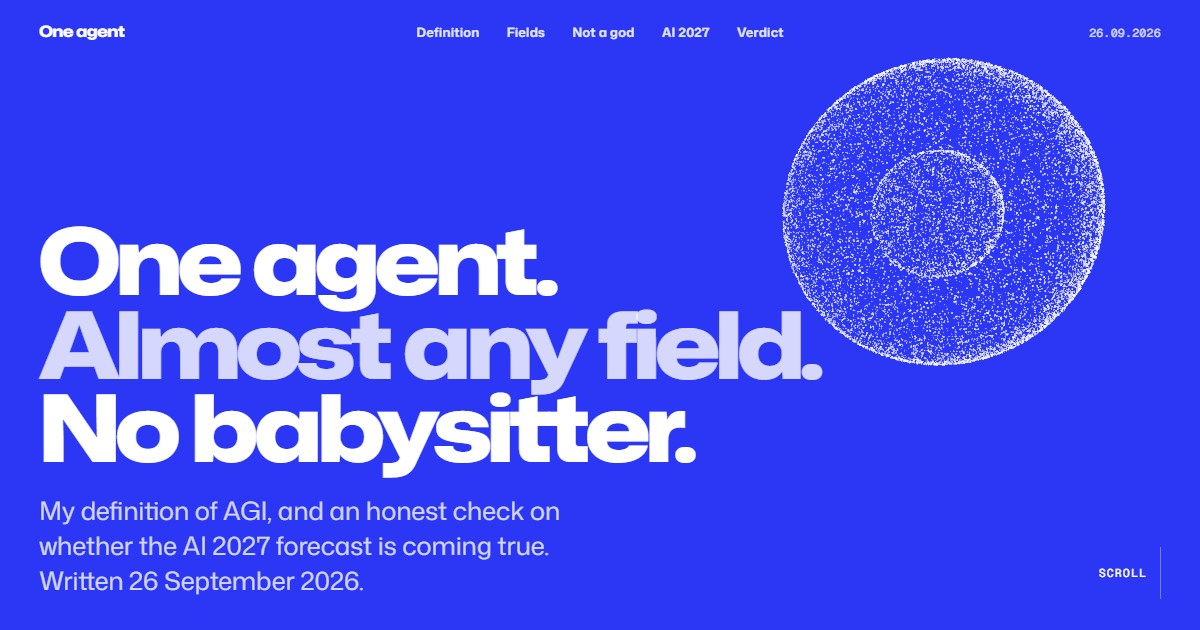
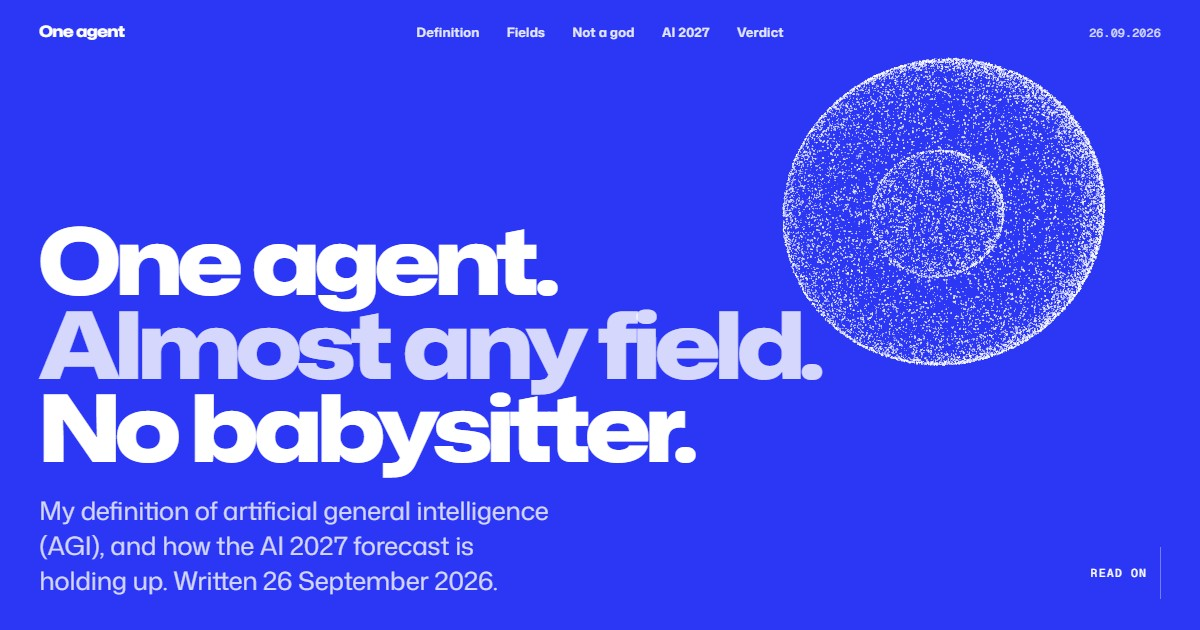
Hand keyboard focus on between pinned blocks; refresh OG capture
Focus inside an outgoing field slide or ASI line kept it forced visible by the
:focus-within rule, so two slides overlapped after PageDown/Space/wheel. Stacked
pinned blocks (.rv-ctl) no longer use that override; applyFields/applyAsi move
focus with preventScroll to the incoming field's index button (or the incoming
line) before the outgoing block leaves. Mobile scrollable slides are only tab
stops when their settled content actually scrolls, so focus no longer drops to
<body> between fields. og.jpg is a fresh 1200x630 capture of the live hero.

Changed region(s): [[0.6475, 0.0905, 0.925, 0.573], [0.0308, 0.7841, 0.4625, 0.9651], [0.8942, 0.9048, 0.9558, 0.9349]]

diff --git a/src/main.ts b/src/main.ts
@@ -189,7 +189,15 @@ function rvSet(el: HTMLElement, st: RvState) {
   if (it?.ctl) setRv(it, st, !it.st);
 }
 function rvRelease(els: HTMLElement[]) {
-  for (const el of els) { const it = rvMap.get(el); if (it?.ctl) { it.ctl = false; rvIO?.observe(el); } }
+  for (const el of els) { const it = rvMap.get(el); if (it?.ctl) { it.ctl = false; el.classList.remove('rv-ctl'); rvIO?.observe(el); } }
+}
+// Stacked pinned blocks share one spot, so focus must never keep an outgoing one on screen.
+// Move it to the incoming block's control first; the outgoing block then leaves normally.
+function handOff(from: HTMLElement | undefined, to: HTMLElement | undefined) {
+  const f = document.activeElement;
+  if (!from || !to || !(f instanceof HTMLElement) || !from.contains(f)) return;
+  if (!to.matches('a, button, [tabindex]')) to.tabIndex = -1;
+  to.focus({ preventScroll: true });
 }
 
 function rvRegister() {
@@ -208,6 +216,7 @@ function rvRegister() {
       });
     } else if (el.matches(RV_DISPLAY) && splitDisplay(el)) el.classList.add('rv-d');
     else el.classList.add('rv-b');
+    if (ctl) el.classList.add('rv-ctl');
     rvMap.set(el, it);
   };
   for (const el of pool) {
@@ -303,9 +312,11 @@ const applyFields = () => {
   const mix = gsap.utils.clamp(0, 1, (f - 0.18) / 0.5);
   const active = f < 0.43 ? k : k + 1;
   if (active !== activeSlide) {
+    const roving = gsap.utils.clamp(1, ticks.length, active) - 1;
+    // keyboard focus in the outgoing field moves to the incoming field's index button
+    handOff(slides[activeSlide], ticks[roving] ?? slides[active]);
     activeSlide = active;
     slides.forEach((s, i) => s.classList.toggle('is-active', i === active));
-    const roving = gsap.utils.clamp(1, ticks.length, active) - 1;
     ticks.forEach((b, i) => {
       b.tabIndex = i === roving ? 0 : -1;
       if (i + 1 === active) b.setAttribute('aria-current', 'true'); else b.removeAttribute('aria-current');
@@ -342,7 +353,20 @@ const unpinFields = () => {
   fieldsSec.classList.remove('pinned');
   fieldsSec.dataset.agent = 'off';
   rvRelease(slides);
+  slideStops();
 };
+// On phones a pinned slide scrolls, and Chrome makes any scroller without focusable children a tab stop.
+// A hidden slide's entrance lift briefly overflows it, so it would become a stop and then drop focus
+// to <body> once the lift settles. A slide is a stop only if its settled content really needs scrolling.
+function slideStops() {
+  const pinned = fieldsSec.classList.contains('pinned');
+  slides.forEach((s) => {
+    if (!pinned) { s.removeAttribute('tabindex'); return; }
+    const last = [...s.children].filter((c): c is HTMLElement => c instanceof HTMLElement && !c.classList.contains('sr-only')).pop();
+    const scrolls = getComputedStyle(s).overflowY !== 'visible' && !!last && last.offsetTop + last.offsetHeight > s.clientHeight + 1;
+    s.tabIndex = scrolls && !s.querySelector('a, button') ? 0 : -1;
+  });
+}
 
 // ---------------------------------------------------------------- not a god: snap
 const asiSec = $('#asi')!;
@@ -350,6 +374,7 @@ const lines = $$('.asi__line', asiSec);
 let asiP = 0;
 const applyAsi = () => {
   const i = asiP < 0.3 ? 0 : asiP < 0.64 ? 1 : 2;
+  lines.forEach((l, j) => { if (j !== i) handOff(l, lines[i]); });
   lines.forEach((l, j) => { l.classList.toggle('is-active', j === i); rvSet(l, j === i ? 'in' : j < i ? 'above' : 'below'); });
   const base = place.asi();
   if (i === 0) setAgent({ from: 'agent', to: 'agent', mix: 1, scatter: 0, dim: 1, ...base });
@@ -457,8 +482,10 @@ if (trace && !reduced) {
 const onScroll = () => { updateNav(); updateZone(); if (rvIO) rvSettle(); };
 if (lenis) lenis.on('scroll', onScroll); else addEventListener('scroll', onScroll, { passive: true });
 let rvResizeT = 0;
-addEventListener('resize', () => { lastZone = ''; onScroll(); clearTimeout(rvResizeT); rvResizeT = window.setTimeout(rvRebuild, 400); });
+addEventListener('resize', () => { lastZone = ''; onScroll(); clearTimeout(rvResizeT); rvResizeT = window.setTimeout(() => { rvRebuild(); slideStops(); }, 400); });
 onScroll();
+slideStops();
+document.fonts?.ready.then(slideStops);
 
 // start the reveal once the pinned chapters exist, so their slides are handed to the pin logic
 if (!reduced) {

diff --git a/src/styles.css b/src/styles.css
@@ -423,8 +423,8 @@ h1, h2, h3 { text-wrap: balance; }
   /* compositor hints only while something is moving */
   .rv-busy, .rv-busy > .rv-c { will-change: transform, opacity, filter; }
   .rv-busy .rw { will-change: transform; }
-  /* anything holding keyboard focus is always shown */
-  [data-rv]:focus-within, [data-rv]:focus-within > .rv-c, [data-rv]:focus-within .rw { opacity: 1 !important; transform: none !important; filter: none !important; clip-path: none !important; }
+  /* anything holding keyboard focus is always shown; stacked pinned blocks hand focus on instead (main.ts handOff) */
+  [data-rv]:not(.rv-ctl):focus-within, [data-rv]:not(.rv-ctl):focus-within > .rv-c, [data-rv]:not(.rv-ctl):focus-within .rw { opacity: 1 !important; transform: none !important; filter: none !important; clip-path: none !important; }
 
   /* first viewport: lines rise on load straight from CSS (no JS wait, no flash), then the reveal system takes over */
   .hero__title > span:not(.sr-only) { animation: rv-line calc(var(--rv-in) * 1.2) var(--ease) backwards; }
